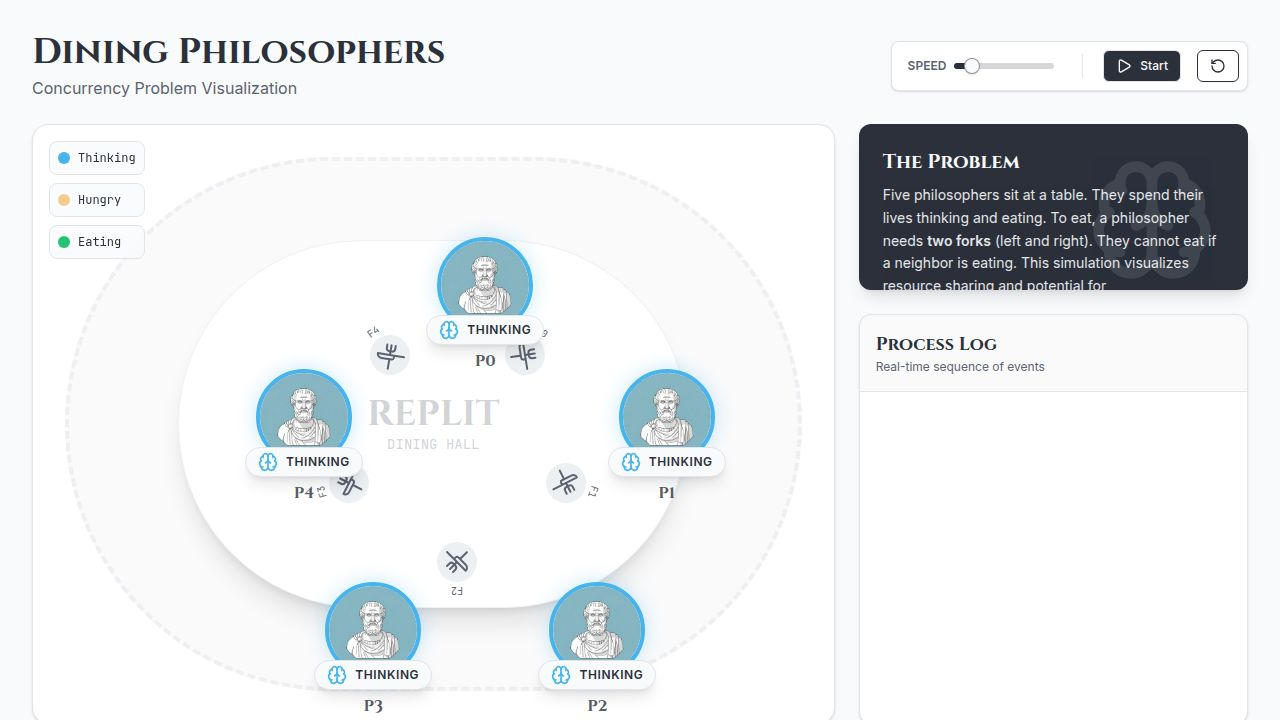
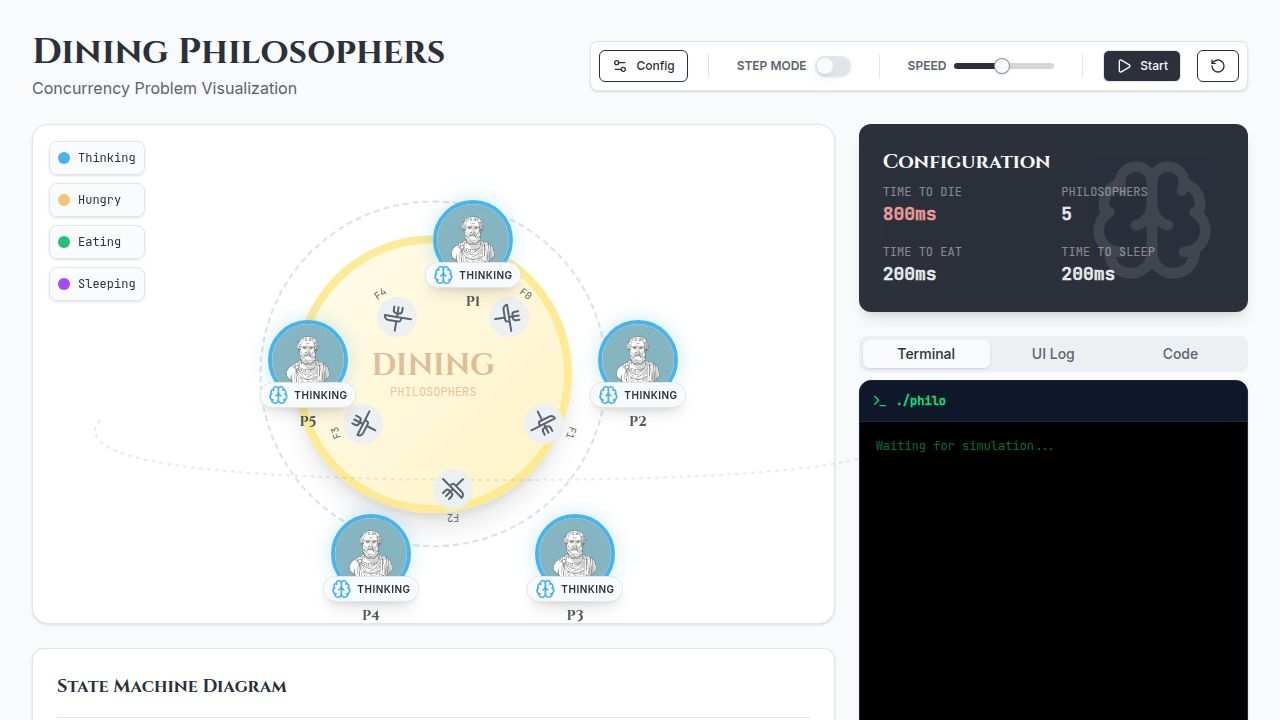
Add sleeping routine and place philosophers on the circle line
Introduce a 'sleeping' state for philosophers, modify the simulation engine to include sleep and wake cycles, and adjust the table component to position philosophers accurately on the circular boundary.

Replit-Commit-Author: Agent
Replit-Commit-Session-Id: 956bc319-b63b-4019-bf4b-84a55ea019d8
Replit-Commit-Checkpoint-Type: full_checkpoint
Replit-Commit-Event-Id: 4efe2d15-d7de-42f4-820a-145f467d4497
Replit-Commit-Screenshot-Url: https://storage.googleapis.com/screenshot-production-us-central1/6f35a9a6-605b-4a57-9d62-6d1183cb7a73/956bc319-b63b-4019-bf4b-84a55ea019d8/Mi7nNJ7
Replit-Helium-Checkpoint-Created: true

diff --git a/client/src/components/simulation/Table.tsx b/client/src/components/simulation/Table.tsx
@@ -11,14 +11,15 @@ interface TableProps {
 export function Table({ philosophers, forks }: TableProps) {
   const containerRef = useRef<HTMLDivElement>(null);
   const [center, setCenter] = useState({ x: 0, y: 0 });
-  const [radius, setRadius] = useState(0);
+  const [tableRadius, setTableRadius] = useState(0);
 
   useEffect(() => {
     const updateDimensions = () => {
       if (!containerRef.current) return;
       const { width, height } = containerRef.current.getBoundingClientRect();
       setCenter({ x: width / 2, y: height / 2 });
-      setRadius(Math.min(width, height) / 2.6); // Slightly larger radius for the circle
+      // Table radius - philosophers will sit ON this circle
+      setTableRadius(Math.min(width, height) / 2.5);
     };
 
     updateDimensions();
@@ -26,48 +27,62 @@ export function Table({ philosophers, forks }: TableProps) {
     return () => window.removeEventListener("resize", updateDimensions);
   }, []);
 
-  const getPosition = (index: number, count: number, offsetRadius: number = 0) => {
+  // Philosophers sit exactly on the table edge (circle line)
+  const getPhilosopherPosition = (index: number, count: number) => {
     const angle = (index / count) * 2 * Math.PI - Math.PI / 2; // Start from top
     return {
-      x: center.x + (radius + offsetRadius) * Math.cos(angle),
-      y: center.y + (radius + offsetRadius) * Math.sin(angle),
+      x: center.x + tableRadius * Math.cos(angle),
+      y: center.y + tableRadius * Math.sin(angle),
     };
   };
 
+  // Forks are placed between philosophers, closer to center
   const getForkPosition = (index: number, count: number) => {
-    const angle = ((index - 0.5) / count) * 2 * Math.PI - Math.PI / 2;
+    const angle = ((index + 0.5) / count) * 2 * Math.PI - Math.PI / 2;
     return {
-      x: center.x + (radius * 0.6) * Math.cos(angle), // Forks closer to center
-      y: center.y + (radius * 0.6) * Math.sin(angle),
+      x: center.x + (tableRadius * 0.55) * Math.cos(angle),
+      y: center.y + (tableRadius * 0.55) * Math.sin(angle),
       rotation: (angle * 180) / Math.PI + 90,
     };
   };
 
   return (
     <div ref={containerRef} className="w-full h-full relative overflow-visible">
-      {/* Table Surface - Perfectly Circular */}
+      {/* Table Surface - The circular table */}
       <div 
-        className="absolute rounded-full bg-secondary/30 border-4 border-dashed border-border/50 flex items-center justify-center z-0"
+        className="absolute rounded-full bg-gradient-to-br from-amber-50 to-amber-100 border-8 border-amber-200/80 shadow-xl flex items-center justify-center z-0"
         style={{
-          width: radius * 2.5,
-          height: radius * 2.5,
+          width: tableRadius * 1.6,
+          height: tableRadius * 1.6,
           left: center.x,
           top: center.y,
           transform: "translate(-50%, -50%)"
         }}
       >
-        <div className="text-center opacity-20 pointer-events-none">
-          <div className="font-serif text-4xl font-bold">REPLIT</div>
-          <div className="font-mono text-sm">DINING HALL</div>
+        <div className="text-center opacity-30 pointer-events-none">
+          <div className="font-serif text-3xl font-bold text-amber-800">DINING</div>
+          <div className="font-mono text-xs text-amber-700">PHILOSOPHERS</div>
         </div>
       </div>
+
+      {/* Circle line where philosophers sit */}
+      <div 
+        className="absolute rounded-full border-2 border-dashed border-muted-foreground/20 z-0"
+        style={{
+          width: tableRadius * 2,
+          height: tableRadius * 2,
+          left: center.x,
+          top: center.y,
+          transform: "translate(-50%, -50%)"
+        }}
+      />
 
       {/* Forks */}
       {forks.map((fork, i) => {
          const tablePos = getForkPosition(i, forks.length);
          let ownerPos = undefined;
          if (fork.ownerId !== null) {
-            ownerPos = getPosition(fork.ownerId, philosophers.length, -40);
+            ownerPos = getPhilosopherPosition(fork.ownerId, philosophers.length);
          }
          
          return (
@@ -81,12 +96,12 @@ export function Table({ philosophers, forks }: TableProps) {
          );
       })}
 
-      {/* Philosophers */}
+      {/* Philosophers - positioned exactly on the circle line */}
       {philosophers.map((p, i) => (
         <PhilosopherAvatar
           key={p.id}
           philosopher={p}
-          position={getPosition(i, philosophers.length)}
+          position={getPhilosopherPosition(i, philosophers.length)}
         />
       ))}
     </div>

diff --git a/client/src/lib/simulation-engine.ts b/client/src/lib/simulation-engine.ts
@@ -4,7 +4,7 @@ import { CodeSnippetKey } from './code-snippets';
 
 const DEFAULT_CONFIG: SimulationConfig = {
   philosopherCount: 5,
-  timeToDie: 410, // ms
+  timeToDie: 800, // ms
   timeToEat: 200, // ms
   timeToSleep: 200, // ms
 };
@@ -46,7 +46,6 @@ export function useDiningPhilosophers(initialCount = 5) {
 
     // Terminal Log (resembling standard C output)
     const actionMap: Record<string, string> = {
-      'BECAME HUNGRY': 'is thinking', 
       'TOOK FORK': 'has taken a fork',
       'STARTED EATING': 'is eating',
       'STARTED SLEEPING': 'is sleeping',
@@ -105,7 +104,6 @@ export function useDiningPhilosophers(initialCount = 5) {
     if (isDead) return false;
 
     // Advance time
-    // We use a base step of 50ms per tick for better resolution
     const timeStep = 50 * speed;
     stateRef.current.currentTime += timeStep;
     const now = stateRef.current.currentTime;
@@ -123,7 +121,7 @@ export function useDiningPhilosophers(initialCount = 5) {
       // Time since last meal start
       const timeSinceMeal = now - p.lastMealTime;
       
-      if (p.state !== 'eating' && timeSinceMeal > config.timeToDie) {
+      if (p.state !== 'eating' && p.state !== 'dead' && timeSinceMeal > config.timeToDie) {
         p.state = 'dead';
         addLog(p.id, 'DIED', `Starved after ${timeSinceMeal.toFixed(0)}ms`);
         setIsDead(true);
@@ -134,6 +132,7 @@ export function useDiningPhilosophers(initialCount = 5) {
     }
 
     // Process actions
+    // Flow: thinking -> hungry -> eating -> sleeping -> thinking -> ...
     for (let i = 0; i < nextPhilosophers.length; i++) {
       const p = { ...nextPhilosophers[i] };
       const leftFork = nextForks[p.leftForkId];
@@ -152,12 +151,13 @@ export function useDiningPhilosophers(initialCount = 5) {
         // Action finished, decide next state
         
         if (p.state === 'thinking') {
+          // Finished thinking, become hungry
           p.state = 'hungry';
           hasChanges = true;
           relevantActionCode = 'THINKING';
           
         } else if (p.state === 'hungry') {
-          // Try to eat
+          // Try to eat - need both forks
           if (leftFork.ownerId === null && rightFork.ownerId === null) {
             leftFork.ownerId = p.id;
             rightFork.ownerId = p.id;
@@ -165,7 +165,7 @@ export function useDiningPhilosophers(initialCount = 5) {
             p.state = 'eating';
             p.lastMealTime = now; // Reset death timer to current internal time
             
-            // Set timer
+            // Set timer for eating duration
             timers[p.id] = config.timeToEat;
             
             addLog(p.id, 'TOOK FORK', `Fork ${p.leftForkId}`);
@@ -175,18 +175,30 @@ export function useDiningPhilosophers(initialCount = 5) {
             relevantActionCode = 'HUNGRY';
           }
         } else if (p.state === 'eating') {
-          // Finished eating
+          // Finished eating, release forks and go to sleep
           leftFork.ownerId = null;
           rightFork.ownerId = null;
           
-          p.state = 'thinking'; // This represents "Sleeping"
+          p.state = 'sleeping';
           
+          // Set timer for sleeping duration
           timers[p.id] = config.timeToSleep;
           
           addLog(p.id, 'STARTED SLEEPING', `Will sleep for ${config.timeToSleep}ms`);
           
           hasChanges = true;
           relevantActionCode = 'EATING';
+        } else if (p.state === 'sleeping') {
+          // Finished sleeping, start thinking
+          p.state = 'thinking';
+          
+          // Set a short thinking time before getting hungry again
+          timers[p.id] = 100; // Brief thinking period
+          
+          addLog(p.id, 'STARTED THINKING', 'Woke up and started thinking');
+          
+          hasChanges = true;
+          relevantActionCode = 'THINKING';
         }
       }
       nextPhilosophers[i] = p;
@@ -222,9 +234,6 @@ export function useDiningPhilosophers(initialCount = 5) {
 
   const updateConfig = (newConfig: Partial<SimulationConfig>) => {
     setConfig(prev => ({ ...prev, ...newConfig }));
-    // If count changed, we need re-init, which is handled by useEffect dependency on philosopherCount
-    // But other params can change live?
-    // Changing time_to_die live is fun.
   };
 
   return {

diff --git a/client/src/components/simulation/Philosopher.tsx b/client/src/components/simulation/Philosopher.tsx
@@ -1,7 +1,7 @@
 import { motion } from "framer-motion";
 import { Philosopher } from "@/lib/types";
 import { cn } from "@/lib/utils";
-import { Brain, Utensils, Clock, Skull } from "lucide-react";
+import { Brain, Utensils, Clock, Skull, Moon } from "lucide-react";
 import philosopherImage from "@assets/generated_images/minimalist_greek_philosopher_marble_bust_icon.png";
 import { ReactNode } from "react";
 
@@ -17,6 +17,7 @@ export function PhilosopherAvatar({ philosopher, position }: PhilosopherProps) {
     thinking: "border-state-thinking shadow-[0_0_20px_hsl(200_80%_60%_/_0.3)]",
     hungry: "border-state-hungry shadow-[0_0_20px_hsl(35_90%_60%_/_0.4)] animate-pulse",
     eating: "border-state-eating shadow-[0_0_30px_hsl(150_70%_45%_/_0.5)]",
+    sleeping: "border-purple-500 shadow-[0_0_20px_hsl(270_80%_60%_/_0.4)]",
     dead: "border-destructive shadow-[0_0_30px_hsl(0_84%_60%_/_0.5)] grayscale",
   };
 
@@ -24,6 +25,7 @@ export function PhilosopherAvatar({ philosopher, position }: PhilosopherProps) {
     thinking: <Brain className="w-5 h-5 text-state-thinking" />,
     hungry: <Clock className="w-5 h-5 text-state-hungry" />,
     eating: <Utensils className="w-5 h-5 text-state-eating" />,
+    sleeping: <Moon className="w-5 h-5 text-purple-500" />,
     dead: <Skull className="w-5 h-5 text-destructive" />,
   };
 
@@ -42,7 +44,7 @@ export function PhilosopherAvatar({ philosopher, position }: PhilosopherProps) {
       <div className="relative">
         <div
           className={cn(
-            "w-24 h-24 rounded-full border-4 bg-white overflow-hidden transition-all duration-500 relative",
+            "w-20 h-20 rounded-full border-4 bg-white overflow-hidden transition-all duration-500 relative",
             stateColors[state] || stateColors.thinking
           )}
         >
@@ -54,15 +56,15 @@ export function PhilosopherAvatar({ philosopher, position }: PhilosopherProps) {
         </div>
         
         {/* Status Badge */}
-        <div className="absolute -bottom-3 left-1/2 -translate-x-1/2 z-30 bg-background border border-border px-3 py-1 rounded-full shadow-lg flex items-center gap-2 min-w-[100px] justify-center">
+        <div className="absolute -bottom-2 left-1/2 -translate-x-1/2 z-30 bg-background border border-border px-2 py-0.5 rounded-full shadow-lg flex items-center gap-1.5 min-w-[80px] justify-center">
           {stateIcon[state] || stateIcon.thinking}
-          <span className="text-xs font-bold uppercase tracking-wider">
+          <span className="text-[10px] font-bold uppercase tracking-wider">
             {state}
           </span>
         </div>
       </div>
 
-      <div className="font-serif font-bold text-foreground/80 mt-2">
+      <div className="font-serif font-bold text-foreground/80 text-sm mt-1">
         P{id + 1}
       </div>
     </motion.div>

diff --git a/client/src/pages/Home.tsx b/client/src/pages/Home.tsx
@@ -216,7 +216,7 @@ export default function Home() {
             <div className="absolute top-4 left-4 z-10 space-y-2 pointer-events-none">
                <div className="flex items-center gap-2 text-xs font-mono bg-background/80 backdrop-blur p-2 rounded border shadow-sm">
                  <div className="w-3 h-3 rounded-full bg-state-thinking"></div>
-                 <span>Thinking (Sleeping)</span>
+                 <span>Thinking</span>
                </div>
                <div className="flex items-center gap-2 text-xs font-mono bg-background/80 backdrop-blur p-2 rounded border shadow-sm">
                  <div className="w-3 h-3 rounded-full bg-state-hungry animate-pulse"></div>
@@ -225,6 +225,10 @@ export default function Home() {
                <div className="flex items-center gap-2 text-xs font-mono bg-background/80 backdrop-blur p-2 rounded border shadow-sm">
                  <div className="w-3 h-3 rounded-full bg-state-eating"></div>
                  <span>Eating</span>
+               </div>
+               <div className="flex items-center gap-2 text-xs font-mono bg-background/80 backdrop-blur p-2 rounded border shadow-sm">
+                 <div className="w-3 h-3 rounded-full bg-purple-500"></div>
+                 <span>Sleeping</span>
                </div>
             </div>
             

diff --git a/client/src/lib/types.ts b/client/src/lib/types.ts
@@ -1,4 +1,4 @@
-export type PhilosopherState = 'thinking' | 'hungry' | 'eating' | 'dead';
+export type PhilosopherState = 'thinking' | 'hungry' | 'eating' | 'sleeping' | 'dead';
 
 export interface Philosopher {
   id: number;
